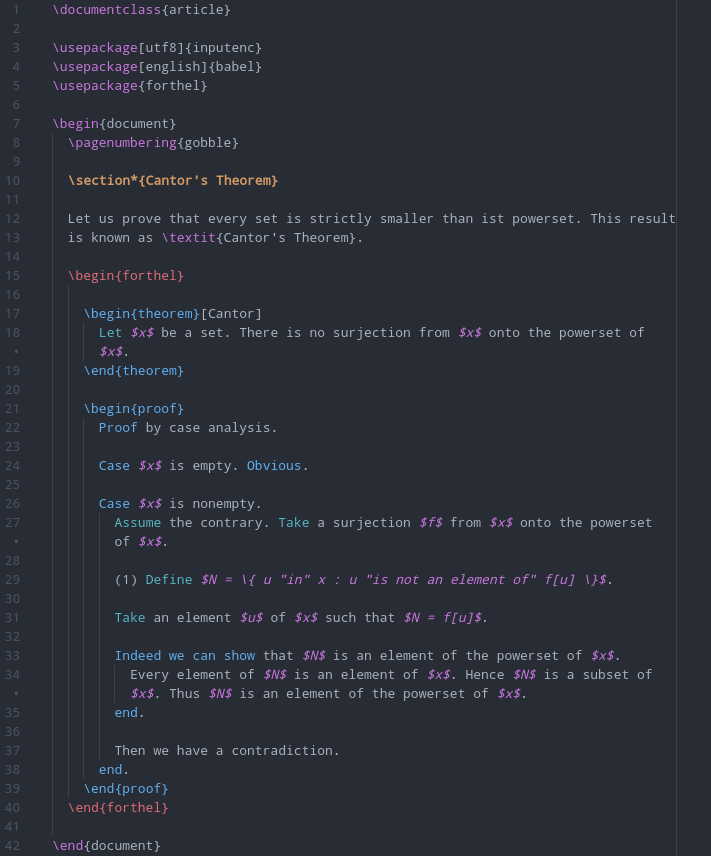
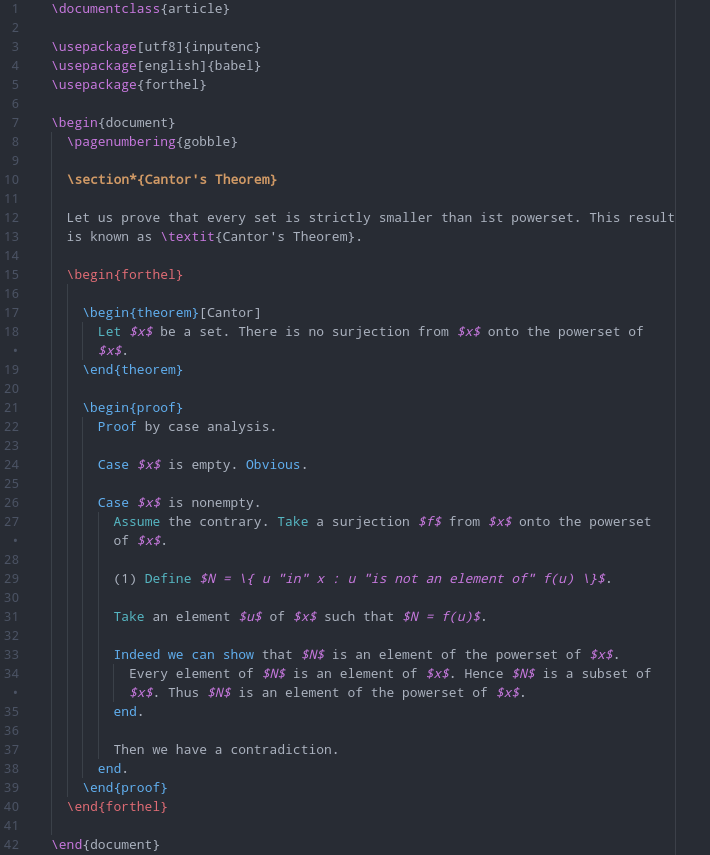
Apply new ForTheL standards to examples

diff --git a/examples/latex-forthel.ftl.tex b/examples/latex-forthel.ftl.tex
@@ -26,9 +26,9 @@
       Case $x$ is nonempty.
         Assume the contrary. Take a surjection $f$ from $x$ onto the powerset of $x$.
 
-        (1) Define $N = \{ u "in" x : u "is not an element of" f[u] \}$.
+        (1) Define $N = \{ u "in" x : u "is not an element of" f(u) \}$.
 
-        Take an element $u$ of $x$ such that $N = f[u]$.
+        Take an element $u$ of $x$ such that $N = f(u)$.
 
         Indeed we can show that $N$ is an element of the powerset of $x$.
           Every element of $N$ is an element of $x$. Hence $N$ is a subset of $x$. Thus $N$ is an element of the powerset of $x$.
